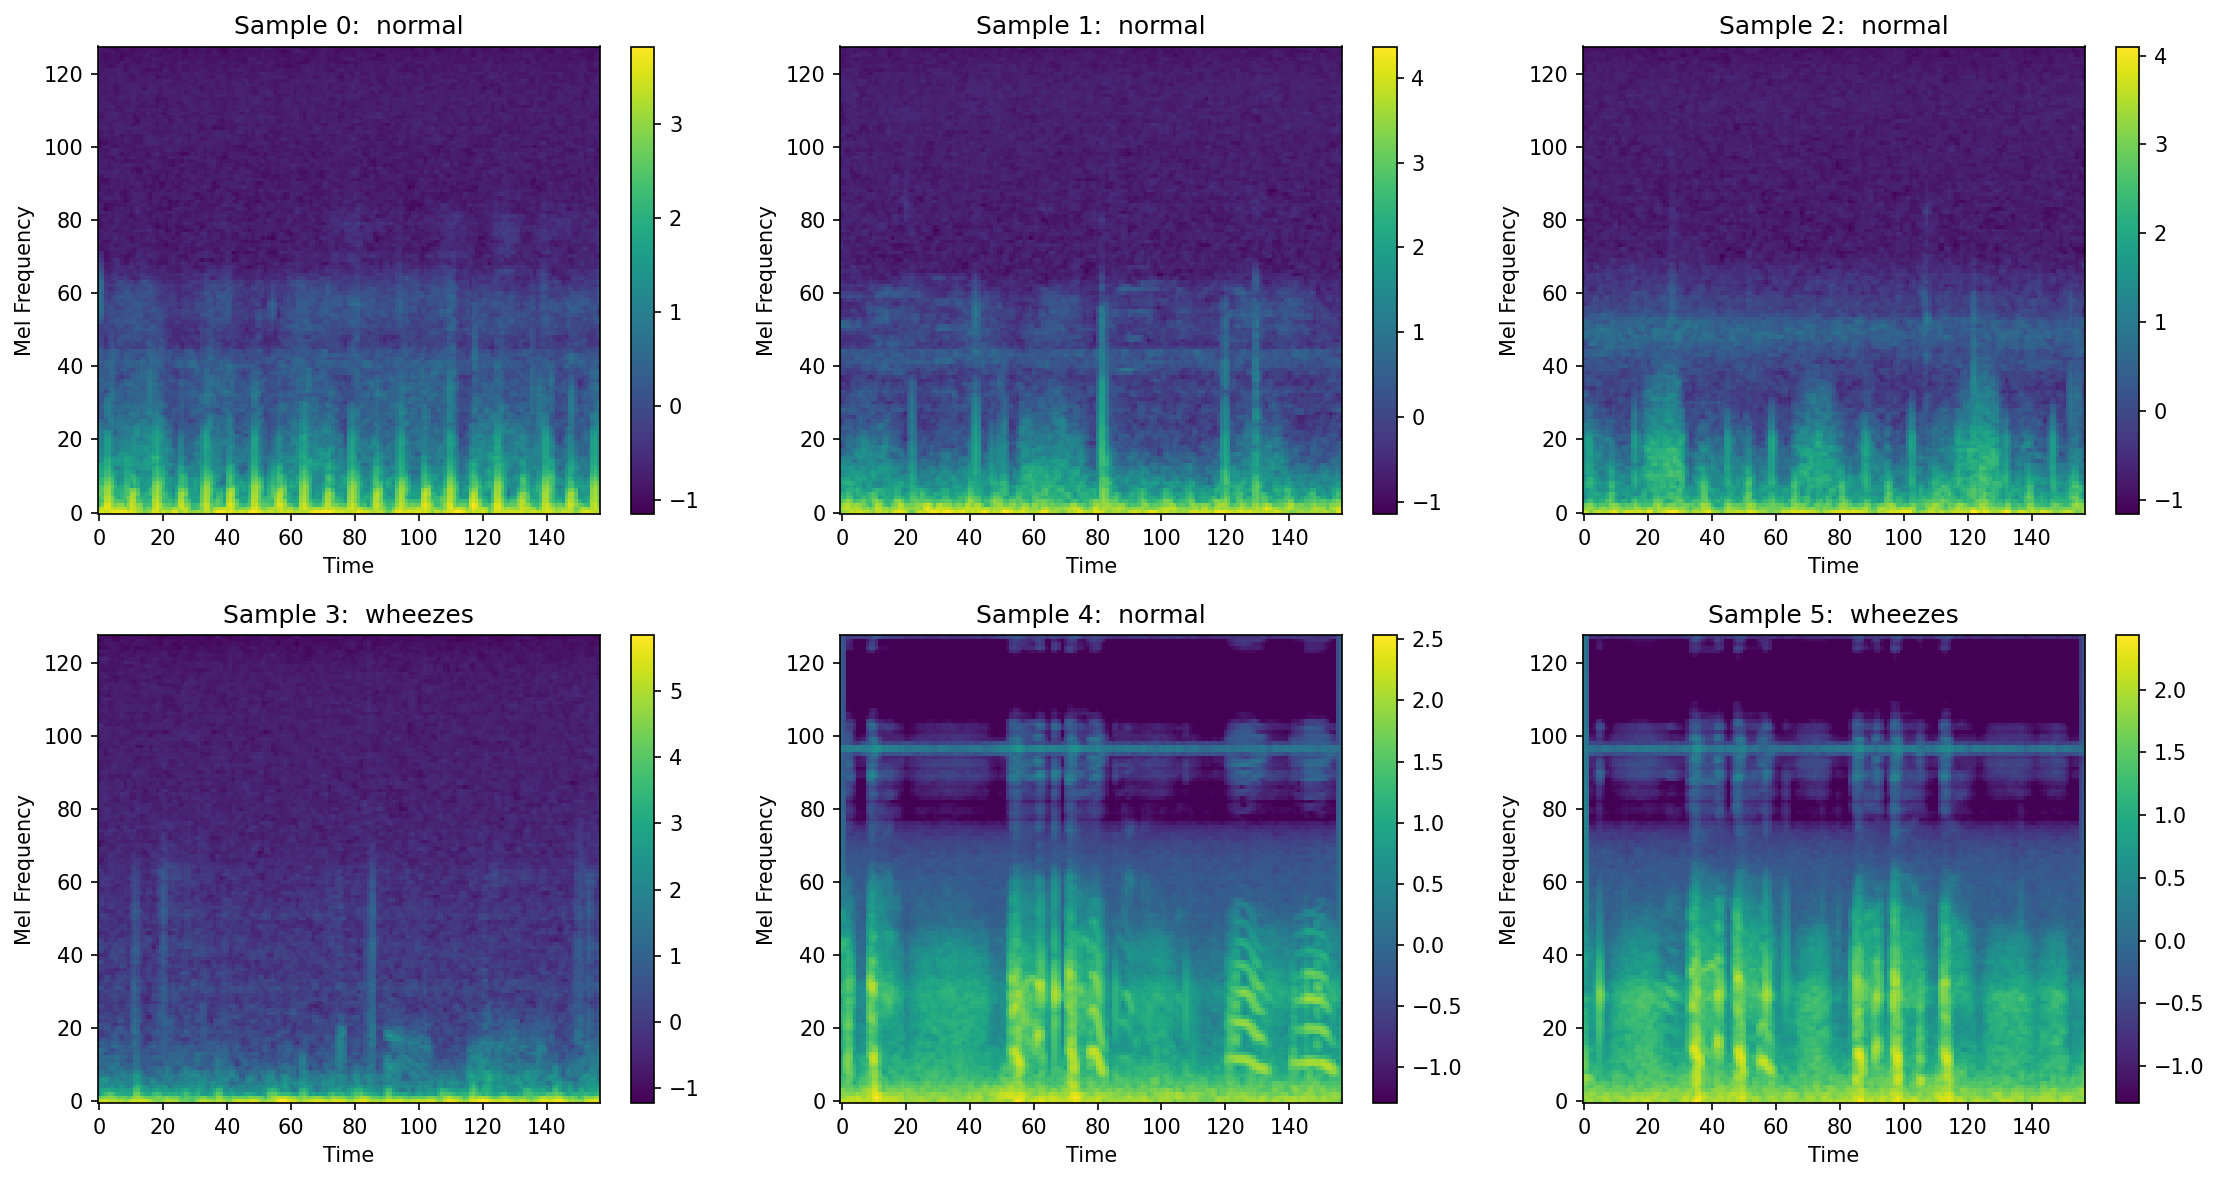
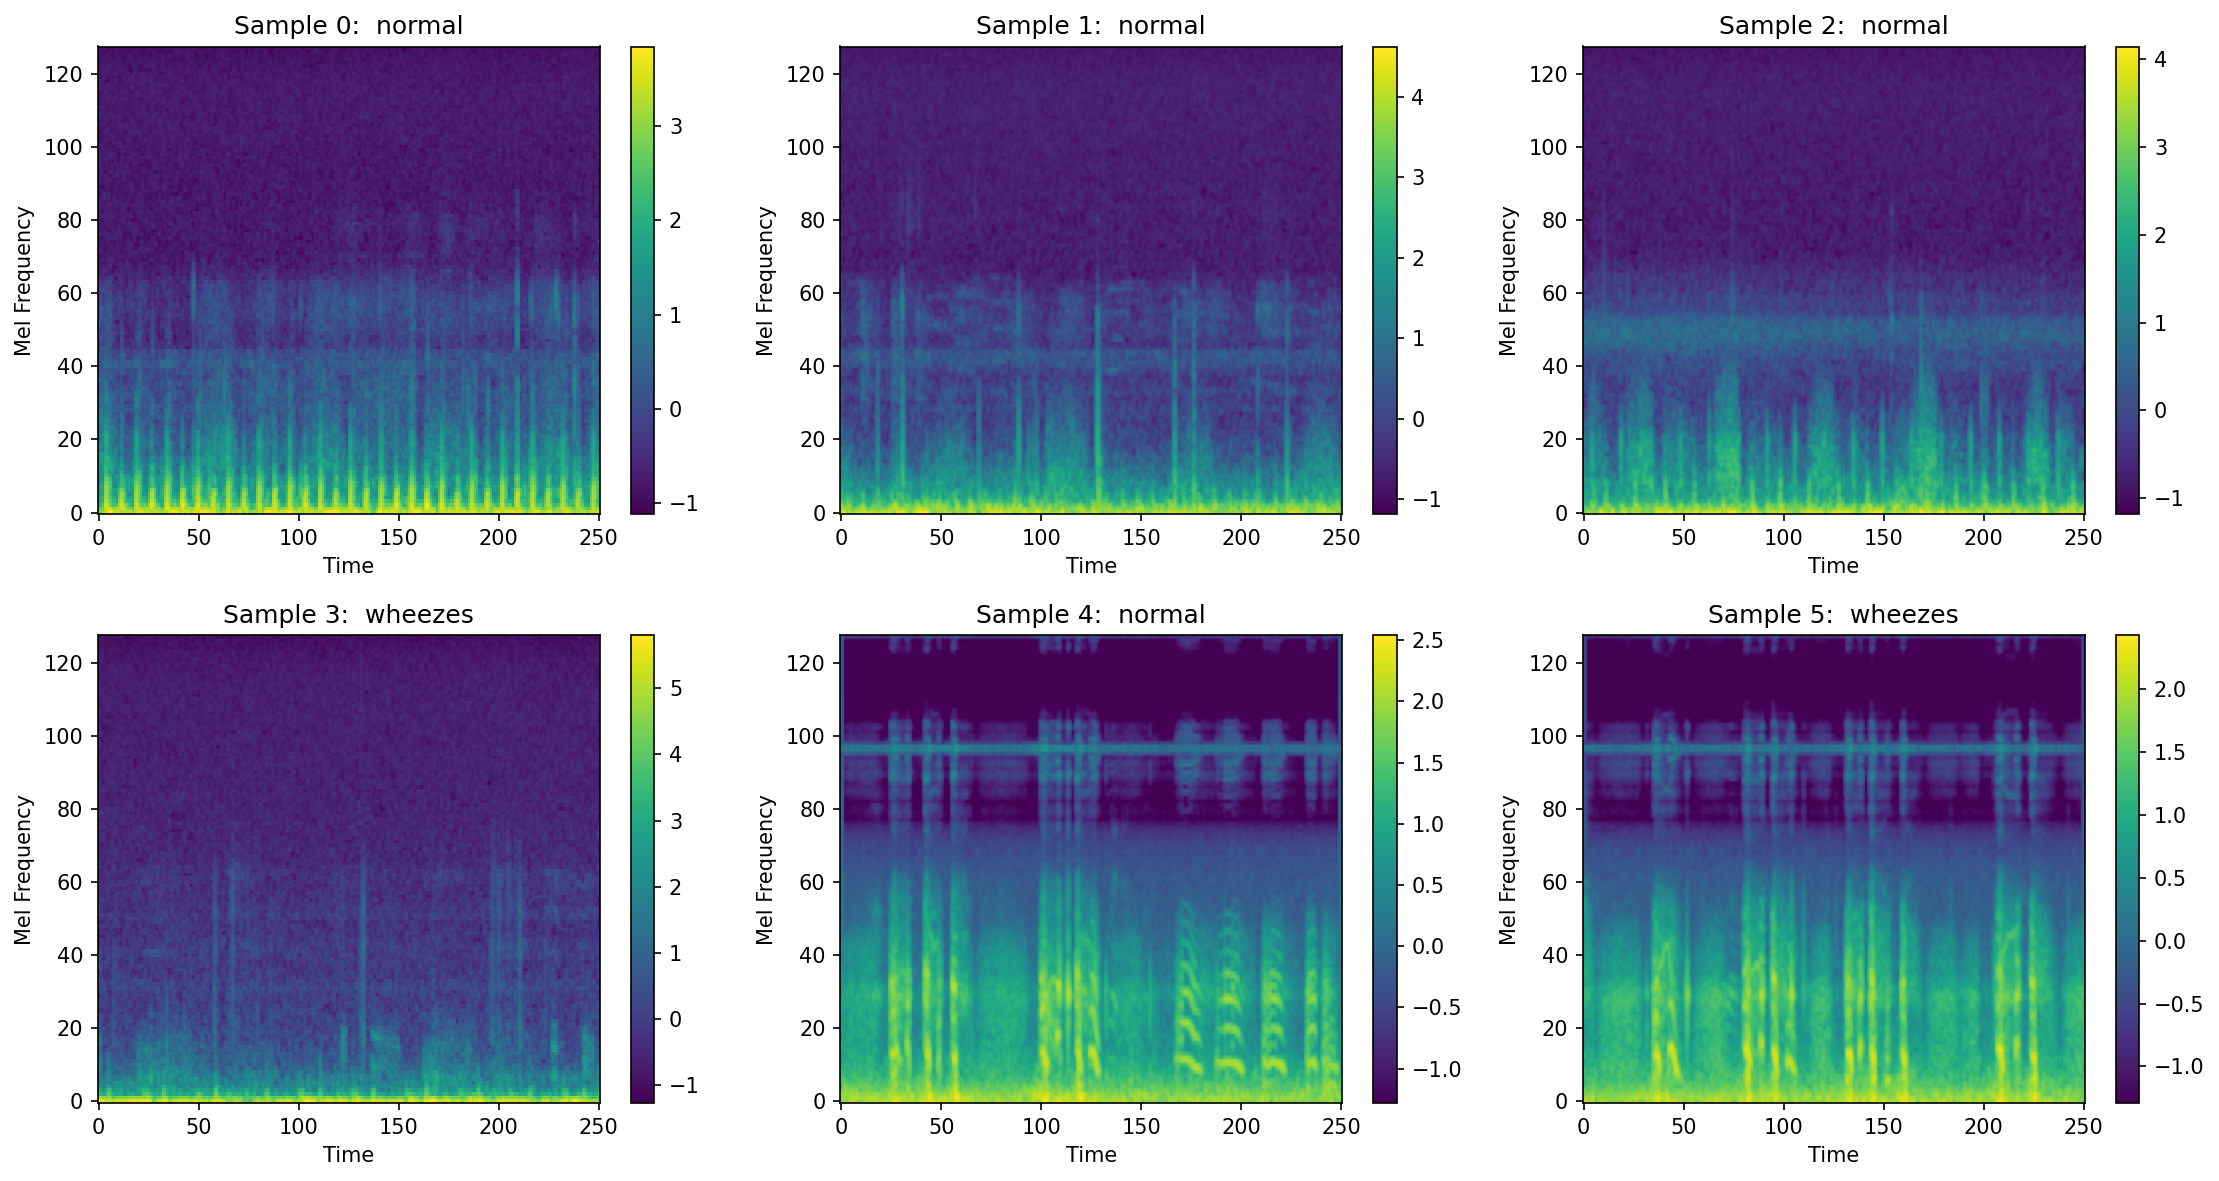
add preprocessing flexible

diff --git a/data/preprocessing_flexible.py b/data/preprocessing_flexible.py
@@ -1,0 +1,192 @@
+"""Flexible audio preprocessor that adapts to different durations."""
+
+import torch
+import torchaudio
+import torchaudio.transforms as T
+import numpy as np
+
+
+class FlexibleAudioPreprocessor: 
+    """
+    Audio preprocessor that handles variable segment durations.
+    """
+
+    def __init__(
+        self,
+        sample_rate=16000,
+        n_mels=128,
+        n_fft=2048,
+        hop_length=512,
+        duration=5.0,
+        augment=False,
+        min_duration=0.5,
+    ):
+        self.sample_rate = sample_rate
+        self. n_mels = n_mels
+        self.n_fft = n_fft
+        self.hop_length = hop_length
+        self.duration = duration
+        self.augment = augment
+        self.min_duration = min_duration
+        self.target_length = int(sample_rate * duration)
+
+        # Adjust n_fft and hop_length for short segments
+        if duration < 1.0:
+            self. n_fft = min(1024, int(sample_rate * duration / 2))
+            self.hop_length = self.n_fft // 4
+
+        # Mel-spectrogram transform
+        self.mel_spectrogram = T.MelSpectrogram(
+            sample_rate=sample_rate,
+            n_fft=self.n_fft,
+            hop_length=self.hop_length,
+            n_mels=n_mels,
+            power=2.0,
+        )
+
+        # Amplitude to dB
+        self.amplitude_to_db = T.AmplitudeToDB()
+
+        # Augmentation transforms
+        if augment:
+            self.time_stretch = T.TimeStretch(fixed_rate=None)
+            self.freq_mask = T.FrequencyMasking(freq_mask_param=15)
+            self.time_mask = T.TimeMasking(time_mask_param=35)
+
+    def load_audio(self, audio_path):
+        """Load audio file and resample if necessary."""
+        waveform, sr = torchaudio.load(audio_path)
+
+        # Convert to mono if stereo
+        if waveform.shape[0] > 1:
+            waveform = torch.mean(waveform, dim=0, keepdim=True)
+
+        # Resample if necessary
+        if sr != self.sample_rate:
+            resampler = T.Resample(sr, self.sample_rate)
+            waveform = resampler(waveform)
+
+        return waveform
+
+    def pad_or_crop(self, waveform):
+        """Pad or crop waveform to target length."""
+        current_length = waveform.shape[1]
+
+        if current_length < self.target_length:
+            # Pad with zeros
+            padding = self.target_length - current_length
+            waveform = torch. nn.functional.pad(waveform, (0, padding))
+        elif current_length > self.target_length:
+            # Crop from center
+            start = (current_length - self.target_length) // 2
+            waveform = waveform[:, start :  start + self.target_length]
+
+        return waveform
+
+    def add_noise(self, waveform, noise_factor=0.005):
+        """Add Gaussian noise to waveform."""
+        noise = torch.randn_like(waveform) * noise_factor
+        return waveform + noise
+
+    def time_shift(self, waveform, shift_max=0.2):
+        """Randomly shift waveform in time."""
+        shift = int(np.random.uniform(-shift_max, shift_max) * waveform.shape[1])
+        return torch.roll(waveform, shift, dims=1)
+
+    def augment_waveform(self, waveform):
+        """Apply random augmentations to waveform."""
+        if np.random.random() > 0.5:
+            waveform = self.add_noise(waveform)
+
+        if np.random.random() > 0.5:
+            waveform = self.time_shift(waveform)
+
+        return waveform
+
+    def augment_spectrogram(self, mel_spec):
+        """Apply SpecAugment to mel-spectrogram."""
+        mel_spec = self.freq_mask(mel_spec)
+        mel_spec = self.time_mask(mel_spec)
+        return mel_spec
+
+    def normalize(self, mel_spec):
+        """Normalize mel-spectrogram."""
+        mean = mel_spec.mean()
+        std = mel_spec. std()
+        return (mel_spec - mean) / (std + 1e-8)
+
+    def resize_spectrogram(self, mel_spec, target_time_steps=None):
+        """
+        Resize spectrogram to target time steps using interpolation.
+        
+        Args:
+            mel_spec: Input spectrogram (C, H, W)
+            target_time_steps: Target width (time dimension)
+        
+        Returns:
+            Resized spectrogram
+        """
+        if target_time_steps is None:
+            # Calculate expected time steps for the duration
+            target_time_steps = int(np.ceil((self.target_length / self.hop_length)))
+        
+        # Ensure minimum size
+        target_time_steps = max(target_time_steps, 32)
+        
+        if mel_spec.shape[-1] != target_time_steps:
+            # Add batch dimension if not present
+            if mel_spec.dim() == 2:
+                mel_spec = mel_spec.unsqueeze(0).unsqueeze(0)
+            elif mel_spec.dim() == 3:
+                mel_spec = mel_spec.unsqueeze(0)
+            
+            # Resize using interpolation
+            mel_spec = torch.nn.functional.interpolate(
+                mel_spec,
+                size=(self.n_mels, target_time_steps),
+                mode='bilinear',
+                align_corners=False
+            )
+            
+            # Remove batch dimension
+            mel_spec = mel_spec.squeeze(0)
+        
+        return mel_spec
+
+    def preprocess(self, audio_path):
+        """
+        Complete preprocessing pipeline. 
+
+        Args:
+            audio_path: Path to audio file
+
+        Returns:
+            Preprocessed mel-spectrogram tensor
+        """
+        # Load audio
+        waveform = self.load_audio(audio_path)
+
+        # Pad or crop to target length
+        waveform = self.pad_or_crop(waveform)
+
+        # Apply waveform augmentation (if enabled and training)
+        if self.augment: 
+            waveform = self. augment_waveform(waveform)
+
+        # Convert to mel-spectrogram
+        mel_spec = self.mel_spectrogram(waveform)
+
+        # Convert to dB scale
+        mel_spec = self. amplitude_to_db(mel_spec)
+
+        # Resize to consistent size
+        mel_spec = self.resize_spectrogram(mel_spec)
+
+        # Apply spectrogram augmentation (if enabled and training)
+        if self.augment:
+            mel_spec = self.augment_spectrogram(mel_spec)
+
+        # Normalize
+        mel_spec = self.normalize(mel_spec)
+
+        return mel_spec
